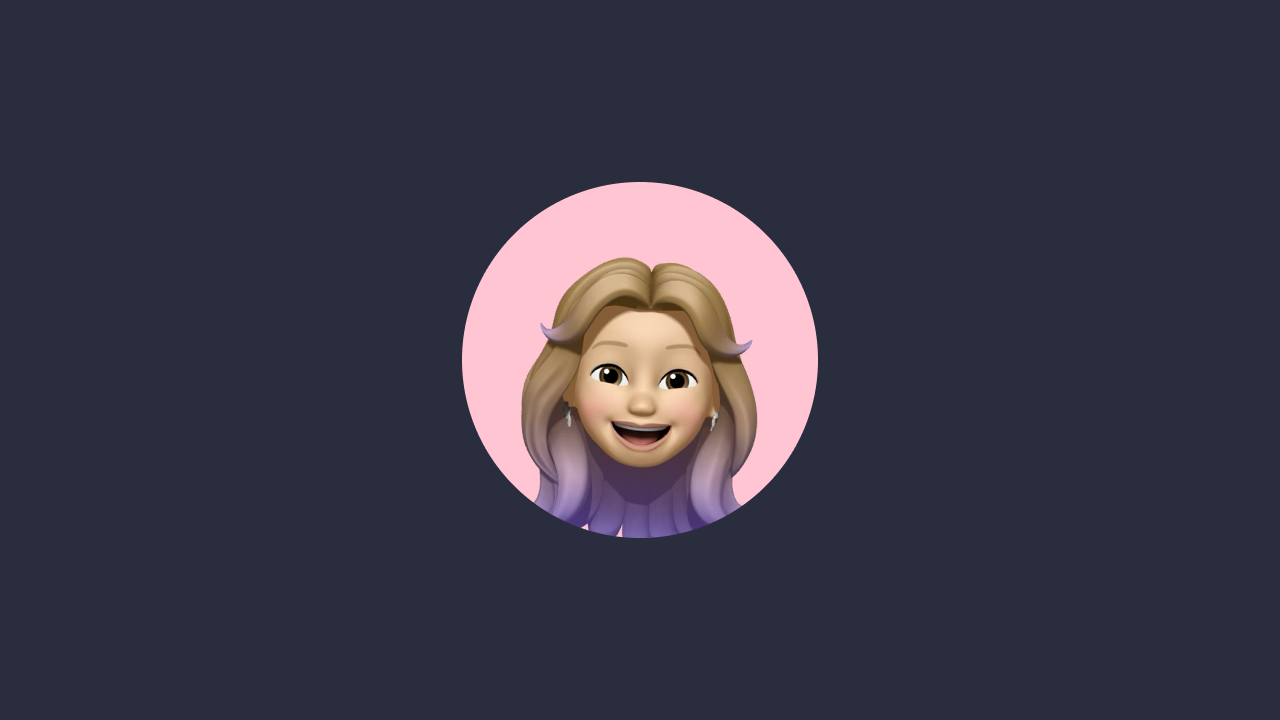
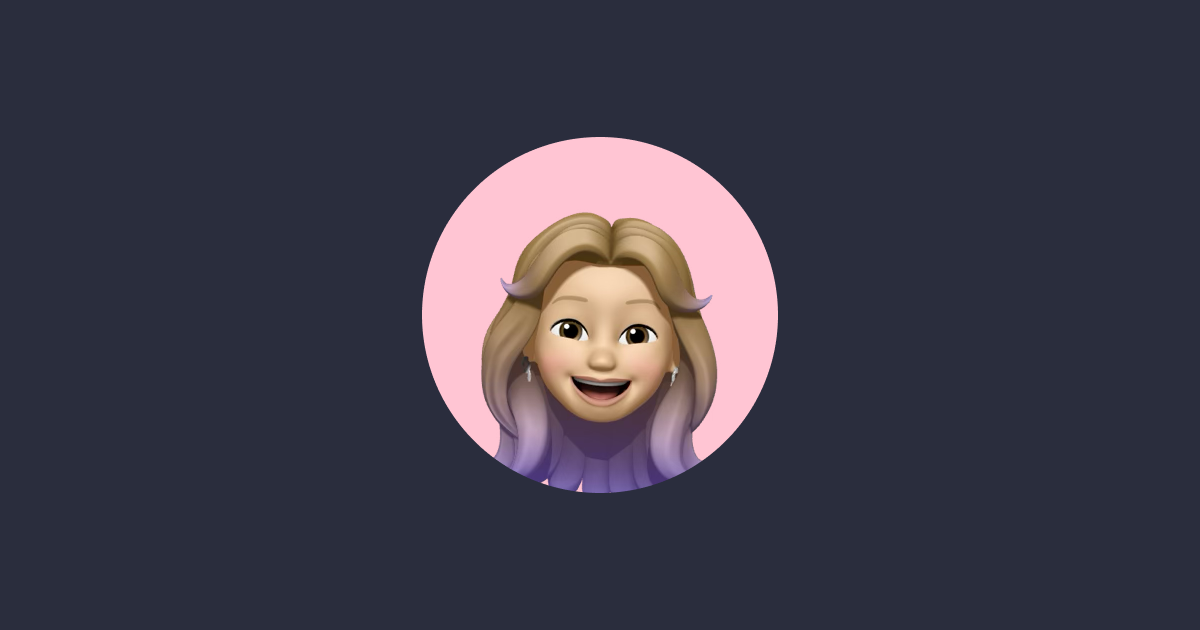
Updated opengraph to be the right default size
Former-commit-id: f94aa3df8c8049cf18835a30654f11252c1564c7

Changed region(s): [[0.3392, 0.2111, 0.6475, 0.7841]]

diff --git a/tools/generateOpenGraph.ts b/tools/generateOpenGraph.ts
@@ -28,8 +28,8 @@ function getLines(ctx: CanvasRenderingContext2D, text: string, maxWidth: number)
 }
 
 export async function createMemoji(memoji: Memoji, circleColor: CircleColor, title: string, description: string, backgroundColor: string = "#2A2D3D"): Promise<Buffer> {
-    const width = 1280;
-    const height = 720;
+    const width = 1200;
+    const height = 630;
 
     const canvas = createCanvas(width, height);
     const ctx = canvas.getContext('2d')
@@ -43,7 +43,7 @@ export async function createMemoji(memoji: Memoji, circleColor: CircleColor, tit
 
     const circlePositionX = width / 2;
     const circlePositionY = height / 2.7;
-    const circleRadius = 178;
+    const circleRadius = 155;
 
     // Create the clipping circle so the avatars do not have their weird flat bottoms
     ctx.ellipse(circlePositionX, circlePositionY, circleRadius, circleRadius, 0, 0, 2 * Math.PI)
@@ -62,8 +62,8 @@ export async function createMemoji(memoji: Memoji, circleColor: CircleColor, tit
     ctx.fillStyle = memojiBackgroundGradient
     ctx.fill()
 
-    const memojiSize = 320
-    const memojiYOffset = 36
+    const memojiSize = 278.65
+    const memojiYOffset = 32
     const memojiX = circlePositionX - (memojiSize / 2)
     const memojiY = circlePositionY - circleRadius + memojiYOffset
 
@@ -77,19 +77,20 @@ export async function createMemoji(memoji: Memoji, circleColor: CircleColor, tit
     const titleY = height - (height / 4)
     const descriptionStartY = titleY + 50
     const descriptionLineOffsets = 40
+    const maxDescriptionWidth = width - 100
 
     ctx.fillStyle = "#FFFFFF"
-    ctx.font = "bold 40px Avenir Next"
+    ctx.font = "bold 38px Avenir Next"
     ctx.textAlign = "center"
     ctx.fillText(title, width / 2, titleY)
 
-    const descriptionLines = getLines(ctx, description, 1200)
+    const descriptionLines = getLines(ctx, description, maxDescriptionWidth)
     let previousHeight = descriptionStartY
     ctx.fillStyle = "#CFCFCF"
-    ctx.font = "32px Avenir Next"
+    ctx.font = "30px Avenir Next"
 
     for (const line of descriptionLines) {
-        ctx.fillText(line, width / 2, previousHeight, 1200)
+        ctx.fillText(line, width / 2, previousHeight, maxDescriptionWidth)
         previousHeight += descriptionLineOffsets
     }
 
@@ -105,7 +106,7 @@ if (!existsSync('./static/opengraph')) {
 }
 
 for (const blog of blogPosts) {
-    const imageBuffer = await createMemoji(blog.memoji, blog.memojiBackground, blog.title, blog.description);
+    const imageBuffer = await createMemoji(Memoji.gossip, blog.memojiBackground, blog.title, blog.description);
 
     writeFileSync(`./static/opengraph/blog/${blog.slug}.png`, imageBuffer)
     console.log(`Created opengraph image for ${blog.title}`)

diff --git a/src/routes/(main)/blog/[slug]/+page.server.ts b/src/routes/(main)/blog/[slug]/+page.server.ts
@@ -21,14 +21,14 @@ export async function load(event: RequestEvent): Promise<BlogProps> {
         throw error(400, "Blog not found")
     }
 
-    console.log(`${event.url.origin}/opengraph/blog/${blog.slug}.png`)
+    // console.log(`${event.url.origin}/opengraph/blog/${blog.slug}.png`)
     let openGraph: OpenGraph = {
         image: `${event.url.origin}/opengraph/blog/${blog.slug}.png`,
         imageAlt: "",
         title: blog.title,
         description: blog.description,
-        imageWidth: 1280,
-        imageHeight: 720
+        imageWidth: 1200,
+        imageHeight: 630
     }
 
     return {blog, openGraph};
